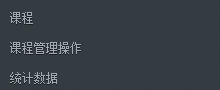
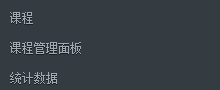
课程管理界面的UI

Changed region(s): [[0.2455, 0.4667, 0.3818, 0.6222]]

diff --git a/sub/app/controllers/courses_controller.rb b/sub/app/controllers/courses_controller.rb
@@ -1,8 +1,9 @@
 # -*- encoding : utf-8 -*-
 class CoursesController < ApplicationController
-  before_filter :require_user,:only=>[:create,:new,:update,:edit,:destroy]
+  ADMIN_ACTIONS=[:admin,:admin7,:admin8,:admin9,:admin10,:admin11,:admin12,:admin13,:admin14,:admin15,:admin16,:admin17,:admin18]
+  before_filter :require_user,:only=>[:create,:new,:update,:edit,:destroy]+ADMIN_ACTIONS
   before_filter :require_user_js,:only => [:follow,:unfollow]
-  before_filter :find_item,:only => [:show,:follow,:unfollow,:syllabus,:asks,:experts]
+  before_filter :find_item,:only => [:show,:follow,:unfollow,:syllabus,:asks,:experts]+ADMIN_ACTIONS
   def index
     @seo[:title]='课程导航'
     @courses = Course
@@ -25,6 +26,20 @@ class CoursesController < ApplicationController
     @coursewares = @course.coursewares
     # render :layout=>false
   end
+  def admin
+    res = Ktv::JQuery.ajax({
+      psvr_original_response: true,
+      url:"http://#{Setting.ktv_subdomain}/simple/forum.php?mod=modcp&fid=#{@course.fid}",
+      type:'GET',
+      data:{},
+      'COOKIE'=>request.env['HTTP_COOKIE'],
+      :accept=>'raw'+Setting.dz_authkey,
+      psvr_response_anyway: true
+    })
+    binding.pry
+    render 'show'
+  end
+
   def syllabus
     render 'show'
   end

diff --git a/sub/config/routes.rb b/sub/config/routes.rb
@@ -159,6 +159,19 @@ Sub::Application.routes.draw do
       get 'syllabus'
       get 'asks'
       get 'experts'
+      get 'admin'
+      get 'admin7'
+      get 'admin8'
+      get 'admin9'
+      get 'admin10'
+      get 'admin11'
+      get 'admin12'
+      get 'admin13'
+      get 'admin14'
+      get 'admin15'
+      get 'admin16'
+      get 'admin17'
+      get 'admin18'
     end
   end
   get '/coursewares_by_departments' => 'coursewares#index'

diff --git a/sub/app/controllers/application_controller.rb b/sub/app/controllers/application_controller.rb
@@ -121,7 +121,6 @@ class ApplicationController < ActionController::Base
       p @_G['uid']
       p (current_user ? current_user.uid : 0)
       sign_out;sign_out_others
-
       return false
     end
   end
